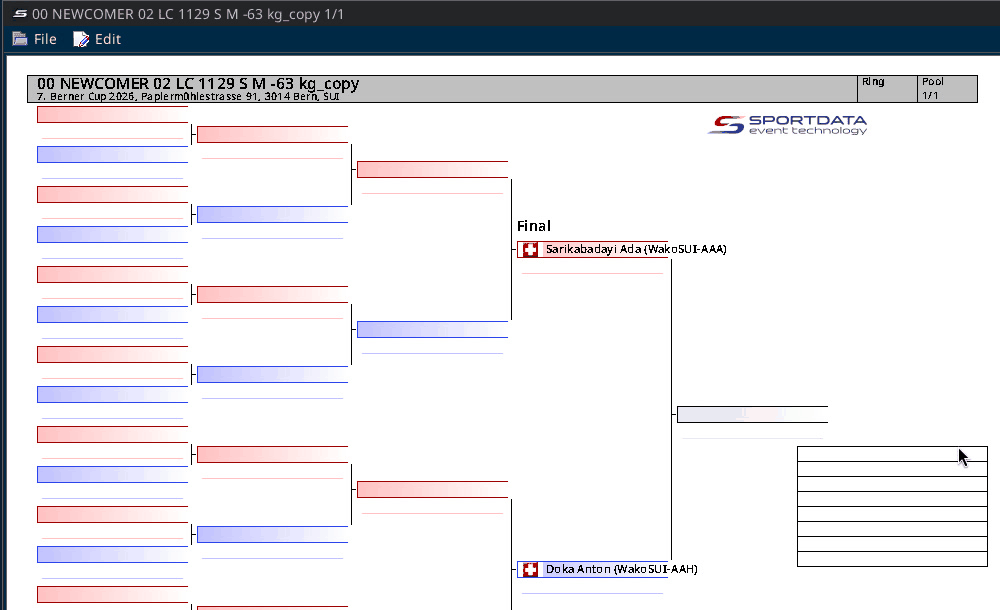
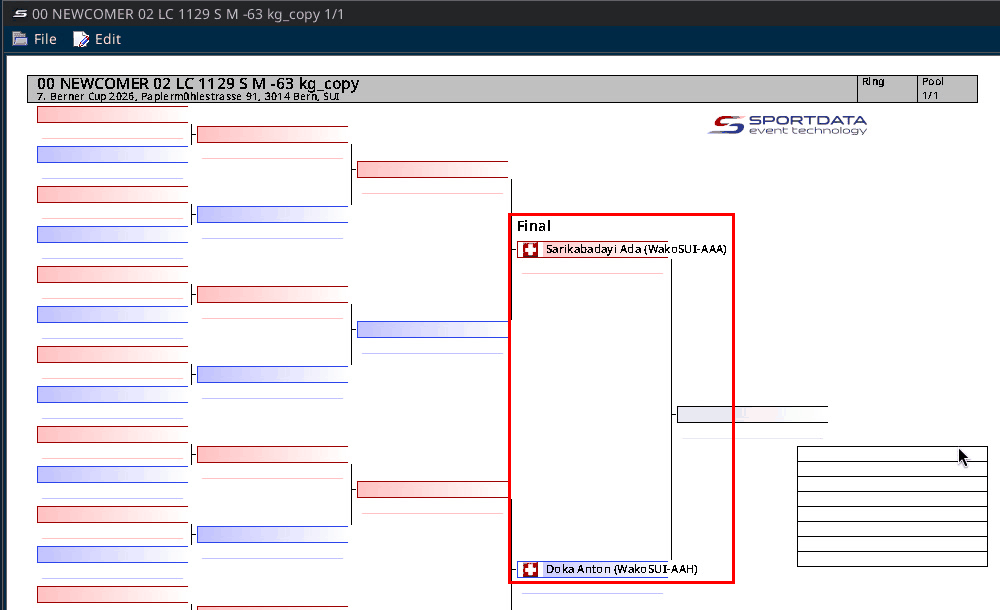
Draw and Draw record close-ups: cross-through, ring selection, delete, tatami (batch B3)

Changed region(s): [[0.496, 0.9344, 0.744, 0.9656], [0.496, 0.3426, 0.744, 0.3738]]

diff --git a/ring.md b/ring.md
@@ -11,7 +11,7 @@ Tatami draws: [Tatamis](tatamis.md).
 ## Draws
 
 1. In the Main Tree Menu, right-click Draw, then click Generate draws by selection. The Generate draws window opens.
-2. Manually select every relevant category. Ring categories start with 05.
+2. Manually select every ring category. Ctrl+click adds a row to the selection. The process document says ring categories start with 05. On the Berner Cup 2026 data they are the 06 LK and 07 K1 categories.
 3. That covers LC, FC, and K1.
 
 ![Draw, Generate draws by selection](img/ring/01a-generate-draws-by-selection.png)
@@ -19,6 +19,16 @@ Tatami draws: [Tatamis](tatamis.md).
 Not found on SET 12.2.0 build 3 (local test, 6 Oct 2026). Found instead: the Generate draws list on this copy has no 05 rows. It goes from 03 KL straight to 06 LK, then 07 K1. Nothing was generated in the test.
 
 ![Generate draws, the list goes from 03 KL to 06 LK](img/ring/01b-generate-draws-no-05.png)
+
+In the test three ring rows were Ctrl-clicked: 06 LK 376 S M -91 kg, 07 K1 390 YJ M -57 kg and 07 K1 428 S M -60 kg.
+
+![Generate draws, three 06 LK and 07 K1 rows selected](img/ring/01c-ring-rows-selected.png)
+
+In the Generate draws window, OK shows without maximizing. OK was only hovered, not clicked.
+
+![Generate draws, OK](img/ring/01d-generate-draws-ok.png)
+
+Do not confuse this with the plain "Generate draws" item in the same menu. That one opens a window titled "Draw" with an "Individual categories" dropdown for one category. It is the item used in [Extra match](extra-match.md).
 
 ## Draw records
 
@@ -29,6 +39,14 @@ Not found on SET 12.2.0 build 3 (local test, 6 Oct 2026). Found instead: the Gen
 ![Draw record, Save draws as draw records by selection](img/ring/02a-save-draws-by-selection.png)
 
 ![Save all draws as draw records, maximize button](img/ring/02b-save-all-draws-window.png)
+
+In the test three ring rows were Ctrl-clicked: 06 LK 383 S F -70 kg, 07 K1 392 YJ M -63,5 kg and 07 K1 430 S M -67 kg. At normal size there is no OK button.
+
+![Save all draws as draw records, three rows selected, no OK yet](img/ring/02c-ring-rows-selected.png)
+
+Maximized, the bottom bar shows OK and Refresh. OK was only hovered.
+
+![Maximized, OK](img/ring/02d-maximized-ok.png)
 
 In the test the window was closed without saving.
 
@@ -129,6 +147,16 @@ At normal size most of these labels are cut off.
 ![Main Options, maximized](img/ring/04h-main-options.png)
 
 If a fight is definitely not happening, delete the draws and the draw records. The match list updates on its own. If it does not, use Delete matches on the match calling table.
+
+On SET 12.2.0 build 3 (local test, 6 Oct 2026): under Draw, right-click the category, then Delete. Under Draw record, right-click the same category, then Delete.
+
+![Draw, category menu, Delete](img/ring/06a-draw-category-delete.png)
+
+![Draw record, category menu, Delete](img/ring/06b-draw-record-category-delete.png)
+
+Both ask "Do you really want to delete this category?" with the category name, in a box titled "Attention!". The text says category in both places. In the test No was clicked both times, so nothing was deleted and what Yes removes was not checked.
+
+![Do you really want to delete this category?](img/ring/06c-delete-category-question.png)
 
 On build 3, select the fight in the match list, then click Delete matches in the Main Options panel. A box titled "Delete matches" asks "Do you really want to delete all selected matches?" Click Yes. In the test, number 29 left the list.
 

diff --git a/final-fixes.md b/final-fixes.md
@@ -42,10 +42,22 @@ The process document called this "cross-block". That is not a SET label. The SET
 
 ![Cross / Undo cross through competitor on this table](img/final-fixes/03b-cross-undo-cross.png)
 
+On SET 12.2.0 build 3 (local test, 6 Oct 2026): the test category was 07 K1 412 OJ M -71 kg_copy, with one Final, Meier George against Roriz de Matos Aaron. After Meier George was picked in the submenu, his name showed crossed through on the draw.
+
+![Meier George crossed through on the draw](img/final-fixes/03e-crossed-through.png)
+
 3. When you close the draw window, SET asks "Do you want to save this table?".
+
+The box is titled "Attention!". Yes saves the table with the cross-through. In the local test No was clicked, so the cross-through was not saved.
+
+![Do you want to save this table?, Yes](img/final-fixes/03f-save-table.png)
 
 "Cross through entry on tables" is also in the Main Tree Menu, in the right-click menu on "Draw" and on "Draw record".
 
 ![Draw, Cross through entry on tables](img/final-fixes/03c-cross-through-draw.png)
 
 ![Draw record, Cross through entry on tables](img/final-fixes/03d-cross-through-draw-record.png)
+
+It opens a window titled "Cross through entry on tables". It has a File menu, a "Search for competitor" button, a list and the footer "(Edit with double-click)". On the local copy the list was empty.
+
+![Cross through entry on tables, Search for competitor](img/final-fixes/03g-cross-through-window.png)

diff --git a/tatamis.md b/tatamis.md
@@ -18,6 +18,10 @@ The window is titled "Generate draws". At the bottom are "Select draws not done"
 
 If draws already exist, use "Select draws not done" so you do not overwrite or regenerate them.
 
+On SET 12.2.0 build 3 (local test, 6 Oct 2026): every draw on the copy already existed, so "Select draws not done" highlighted no rows. No tatami rows were selected in the test.
+
+![Select draws not done, no rows highlighted](img/tatamis/01c-select-draws-not-done.png)
+
 ## Draw records
 
 Right-click "Draw record", then "Save draws as draw records by selection". Select the tatami categories.
